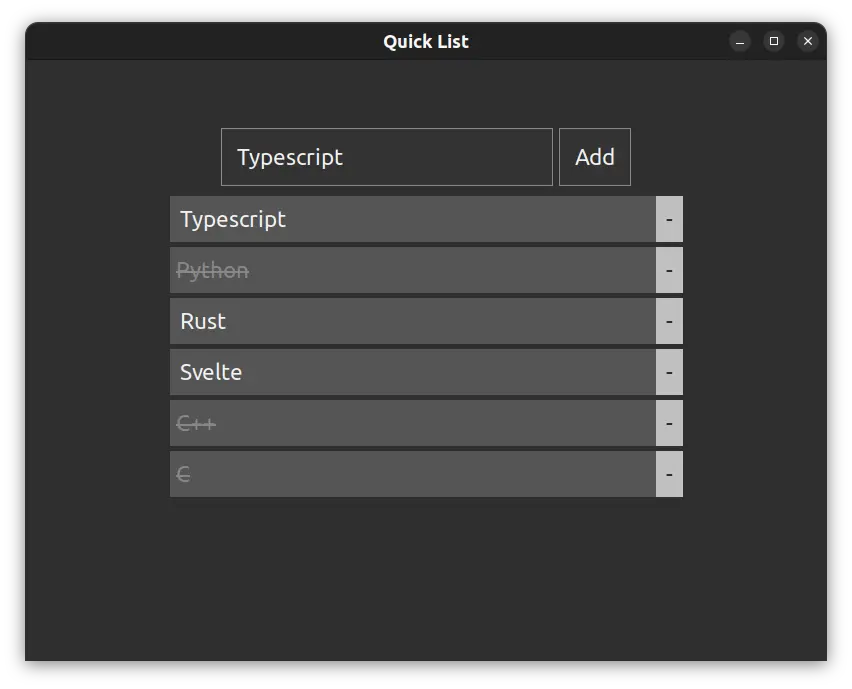
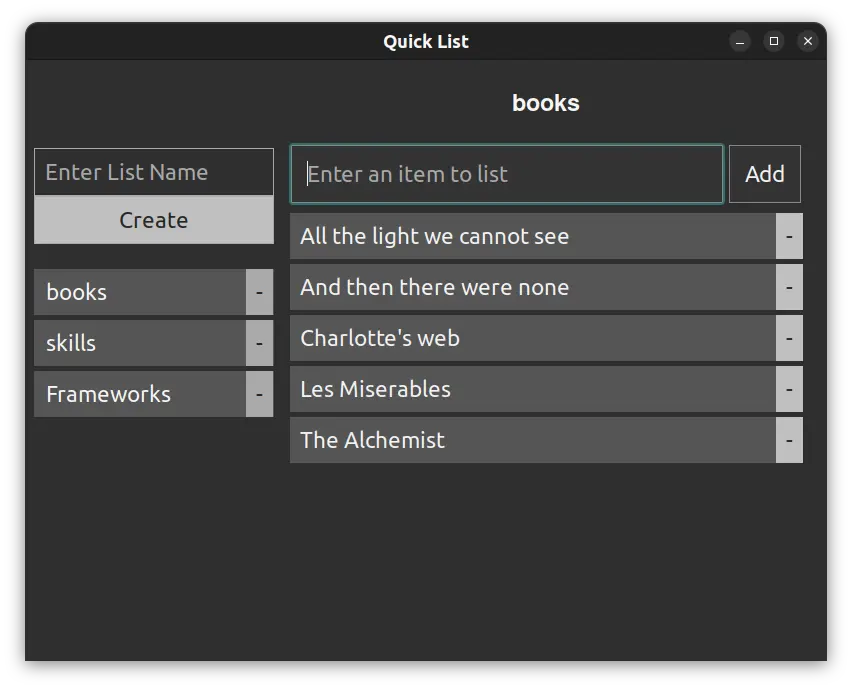
multiple list support added

Changed region(s): [[0.0305, 0.1219, 0.946, 0.7315]]

diff --git a/src/lib/List.svelte b/src/lib/List.svelte
@@ -1,11 +1,31 @@
 <script lang="ts">
   import Item from "./Item.svelte";
+  import SideBar from "./SideBar.svelte";
   import { invoke } from "@tauri-apps/api/tauri";
 
-  let list_name = "list1";
+  let list_names = [];
+  let list_name = "";
+  let items = [];
   let item_name = "";
 
-  $: items = [];
+  async function load_list_names() {
+    let list = await invoke("get_list_names");
+    if (list) {
+      list_names = list;
+    }
+  }
+
+  async function deleteList() {
+    let response = await invoke("delete_list", {
+      listName: this.previousElementSibling.innerText,
+    });
+    if (response) {
+      list_names = response;
+      if (list_name == this.previousElementSibling.innerText) {
+        list_name = "";
+      }
+    }
+  }
 
   async function addItem() {
     if (item_name != "") {
@@ -15,13 +35,15 @@
       });
       if (list) {
         items = list;
+        item_name = "";
       }
     }
   }
 
   async function loadData() {
-    let list = await invoke("get_list", { listName: list_name });
+    let list = await invoke("get_list", { listName: this.innerText });
     if (list) {
+      list_name = this.innerText;
       items = list;
     }
   }
@@ -39,34 +61,37 @@
   async function deleteItem() {
     let list = await invoke("remove_item_from_list", {
       listName: list_name,
-      itemName: this.id,
+      itemName: this.previousElementSibling.innerText,
     });
     if (list) {
       items = list;
     }
   }
-  loadData();
+  load_list_names();
 </script>
 
 <div class="container">
-  <div>
-    <form on:submit|preventDefault={addItem}>
-      <input placeholder="Enter an item to list" bind:value={item_name} />
-      <button type="submit">Add</button>
-    </form>
-    <div class="list">
-      {#each items as item}
-        {#key item.name}
-          <Item
-            id={item.name}
-            name={item.name}
-            checked={item.checked}
-            onClick={toggleChecked}
-            onDelete={deleteItem}
-          />
-        {/key}
-      {/each}
-    </div>
+  <SideBar {list_names} onClick={loadData} onDelete={deleteList} />
+  <div class="right">
+    {#if list_name != ""}
+      <h3>{list_name}</h3>
+      <form on:submit|preventDefault={addItem}>
+        <input placeholder="Enter an item to list" bind:value={item_name} />
+        <button type="submit">Add</button>
+      </form>
+      <div class="list">
+        {#each items as item}
+          {#key item.name}
+            <Item
+              name={item.name}
+              checked={item.checked}
+              onClick={toggleChecked}
+              onDelete={deleteItem}
+            />
+          {/key}
+        {/each}
+      </div>
+    {/if}
   </div>
 </div>
 
@@ -75,11 +100,14 @@
     display: flex;
     flex-direction: row;
     align-items: flex-start;
-    justify-content: space-around;
+    justify-content: space-between;
     width: 100%;
   }
+  .right {
+    width: 70vw;
+  }
   .list {
-    padding: 10px;
+    margin-top: 10px;
     display: flex;
     flex-direction: column;
     align-items: center;

diff --git a/src/lib/SideBar.svelte b/src/lib/SideBar.svelte
@@ -1,0 +1,60 @@
+<script lang="ts">
+  import ListName from "./ListName.svelte";
+
+  export let list_names = [];
+  export let onClick;
+  export let onDelete;
+
+  let list_name;
+
+  function addList() {
+    if (list_name != "" && !list_names.includes(list_name)) {
+      list_names = [...list_names, list_name];
+      list_name = "";
+    }
+  }
+</script>
+
+<div class="main">
+  <form on:submit|preventDefault={addList}>
+    <input placeholder="Enter List Name" bind:value={list_name} />
+    <button type="submit">Create</button>
+  </form>
+  {#each list_names as list}
+    <ListName list_name={list} {onClick} {onDelete} />
+  {/each}
+</div>
+
+<style scoped>
+  form {
+    width: 100%;
+    display: flex;
+    flex-direction: column;
+    margin-bottom: 20px;
+  }
+
+  input {
+    border: solid #aaa 1px;
+    padding: 10px;
+  }
+
+  button {
+    border: solid #aaa 1px;
+    padding: 10px;
+  }
+  .main {
+    padding-top: 80px;
+    width: 30vw;
+    display: flex;
+    flex-direction: column;
+    justify-content: flex-start;
+    gap: 5px;
+  }
+
+  @media (prefers-color-scheme: dark) {
+    input {
+      background-color: inherit;
+      color: #f2f2f2;
+    }
+  }
+</style>

diff --git a/src/lib/Item.svelte b/src/lib/Item.svelte
@@ -1,9 +1,8 @@
 <script lang="ts">
   export let name = "";
-  export let id = "";
   export let checked = false;
-  export let onClick = () => {};
-  export let onDelete = () => {};
+  export let onClick;
+  export let onDelete;
 </script>
 
 <div class="item">
@@ -12,9 +11,9 @@
       >{name}</button
     >
   {:else}
-    <button class="name" on:click|preventDefault={onClick} {id}>{name}</button>
+    <button class="name" on:click|preventDefault={onClick}>{name}</button>
   {/if}
-  <button class="remove-btn" on:click|preventDefault={onDelete} {id}>-</button>
+  <button class="remove-btn" on:click|preventDefault={onDelete}>-</button>
 </div>
 
 <style scoped>
@@ -23,7 +22,6 @@
     flex-direction: row;
     align-items: center;
     justify-content: space-between;
-    border-radius: 5px;
     background-color: #cdcdcd;
   }
   .name {

diff --git a/src/lib/ListName.svelte b/src/lib/ListName.svelte
@@ -1,0 +1,38 @@
+<script lang="ts">
+  export let list_name = "";
+  export let onClick;
+  export let onDelete;
+</script>
+
+<div class="main">
+  <button class="subdiv" on:click|preventDefault={onClick}>{list_name}</button>
+  <button class="delete-btn" on:click|preventDefault={onDelete}>-</button>
+</div>
+
+<style scoped>
+  .main {
+    display: flex;
+    flex-direction: row;
+    align-items: center;
+    justify-content: center;
+    background-color: #cdcdcd;
+  }
+  .delete-btn {
+    background-color: #aaa;
+    padding: 10px;
+    border: none;
+  }
+  .subdiv {
+    border: none;
+    width: calc(100% - 30px);
+    padding: 10px;
+    text-align: left;
+    background-color: inherit;
+    color: inherit;
+  }
+  @media (prefers-color-scheme: dark) {
+    .main {
+      background-color: #555;
+    }
+  }
+</style>

diff --git a/src-tauri/src/main.rs b/src-tauri/src/main.rs
@@ -52,6 +52,22 @@ fn remove_item_from_list(
     None
 }
 
+#[tauri::command]
+fn delete_list(app_handle: AppHandle, list_name: String) -> Option<Vec<String>> {
+    if let Ok(list_names) = app_handle.db(|db| database::delete_list(db, &list_name)) {
+        return Some(list_names);
+    }
+    None
+}
+
+#[tauri::command]
+fn get_list_names(app_handle: AppHandle) -> Option<Vec<String>> {
+    if let Ok(list_names) = app_handle.db(database::get_list_names) {
+        return Some(list_names);
+    }
+    None
+}
+
 fn main() {
     tauri::Builder::default()
         .manage(AppState {
@@ -70,6 +86,8 @@ fn main() {
             toggle_checked_value,
             get_list,
             remove_item_from_list,
+            get_list_names,
+            delete_list,
         ])
         .run(tauri::generate_context!())
         .expect("error while running tauri application");

diff --git a/src-tauri/src/database.rs b/src-tauri/src/database.rs
@@ -114,3 +114,21 @@ pub fn toggle_checked(
     statement.execute(named_params! { "@item": item_name, "@list": list_name })?;
     get_list(db, list_name)
 }
+
+pub fn get_list_names(db: &Connection) -> Result<Vec<String>, rusqlite::Error> {
+    let query = format!("SELECT DISTINCT list FROM {TABLE_NAME}");
+    let mut statement = db.prepare(&query)?;
+    let mut rows = statement.query([])?;
+    let mut list = vec![];
+    while let Some(row) = rows.next()? {
+        list.push(row.get("list")?);
+    }
+    Ok(list)
+}
+
+pub fn delete_list(db: &Connection, list_name: &str) -> Result<Vec<String>, rusqlite::Error> {
+    let query = format!("DELETE FROM {TABLE_NAME} WHERE list = @list");
+    let mut statement = db.prepare(&query)?;
+    statement.execute(named_params! {"@list": list_name})?;
+    get_list_names(db)
+}
